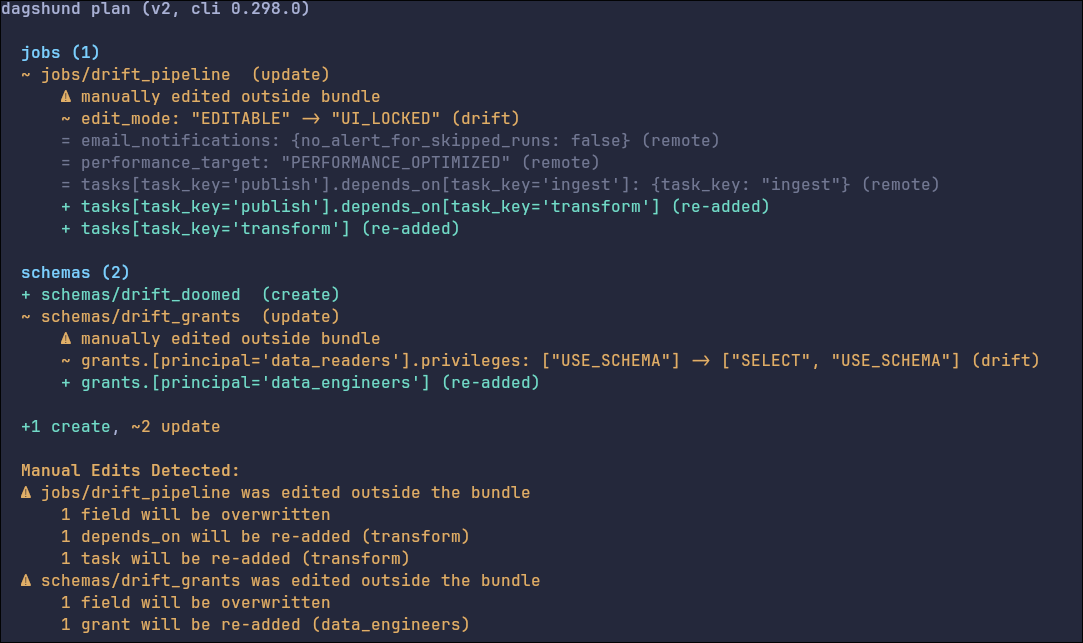
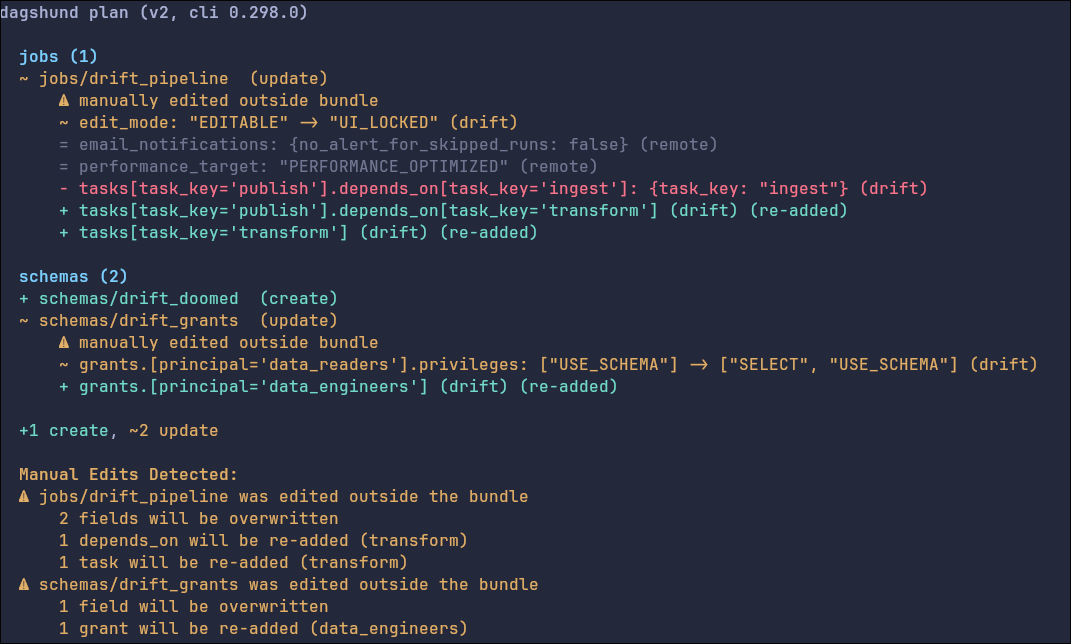
refactor(drift): surface drift tag on topology re-add entries (dagshund-qby2)

diff --git a/js/src/components/detail-panel/drift-pill.tsx b/js/src/components/detail-panel/drift-pill.tsx
@@ -1,7 +1,8 @@
 /**
- * Small textual pill signaling that a node carries topology drift:
- * a sub-entity defined in the bundle but missing from the remote, which
- * Databricks will re-add on apply.
+ * Small textual pill signaling drift between the bundle and the remote:
+ * a manual edit that apply will reconcile. Covers three cases — field-level
+ * drift (apply will overwrite), topology re-add (apply will re-add), and
+ * reclassified list-element delete (apply will remove).
  *
  * Deliberately NOT composed with DiffStateBadge — drift is an orthogonal
  * dimension (runs alongside added/modified/unchanged), with distinct
@@ -10,7 +11,7 @@
 export function DriftPill() {
   return (
     <span
-      title="Sub-entity is missing from the remote — will be re-added on apply"
+      title="Differs from remote — apply will reconcile this"
       className="rounded-full border border-dashed border-ink-muted px-1.5 py-0 text-[10px] font-medium text-ink-muted"
     >
       drift

diff --git a/js/tests/components/detail-panel/drift-pill.test.tsx b/js/tests/components/detail-panel/drift-pill.test.tsx
@@ -7,7 +7,7 @@ describe("DriftPill", () => {
     const { getByText, container } = render(<DriftPill />);
     expect(getByText("drift")).toBeDefined();
     const span = container.querySelector("span") as HTMLElement;
-    expect(span.title).toContain("re-added on apply");
+    expect(span.title).toContain("apply will reconcile");
   });
 
   test("has the dashed-border visual treatment", () => {

diff --git a/tests/test_markdown.py b/tests/test_markdown.py
@@ -368,8 +368,8 @@ def test_render_markdown_drift_plan(fixtures_dir: Path) -> None:
     assert ">   - 1 grant will be re-added (data_engineers)" in result
 
     # Body: re-added sub-entities rendered as create-style list items
-    assert "`+` `tasks[task_key='transform']` (re-added)" in result
-    assert "`+` `grants.[principal='data_engineers']` (re-added)" in result
+    assert "`+` `tasks[task_key='transform']` (drift) (re-added)" in result
+    assert "`+` `grants.[principal='data_engineers']` (drift) (re-added)" in result
 
     # Old flat parenthetical format must not leak back in
     assert "(2 fields will be overwritten)" not in result
@@ -398,7 +398,7 @@ def test_render_markdown_drift_topology_only() -> None:
     result = render_markdown(plan)
 
     assert ":warning: manually edited outside bundle" in result
-    assert "`+` `tasks[task_key='transform']` (re-added)" in result
+    assert "`+` `tasks[task_key='transform']` (drift) (re-added)" in result
     assert ">   - 1 task will be re-added (transform)" in result
 
 

diff --git a/tests/test_terminal.py b/tests/test_terminal.py
@@ -974,7 +974,7 @@ def test_render_resource_topology_drift_emits_single_reentry_line(change_key: st
     lines = list(_render_resource("resources.jobs.pipeline", entry, use_color=False))
     matching = [line for line in lines if expected_token in line]
     assert len(matching) == 1
-    assert matching[0].endswith("(re-added)")
+    assert matching[0].endswith("(drift) (re-added)")
     assert "+" in matching[0]
     assert any("manually edited outside bundle" in line for line in lines)
 

diff --git a/src/dagshund/terminal.py b/src/dagshund/terminal.py
@@ -200,7 +200,7 @@ def _render_resource(
         for key_name, change in sorted(changes.items()):
             if not is_topology_drift_change(change):
                 continue
-            line = f"      {create_cfg.symbol} {key_name} (re-added)"
+            line = f"      {create_cfg.symbol} {key_name} (drift) (re-added)"
             yield _colorize(line, create_color, use_color=use_color)
 
 

diff --git a/src/dagshund/markdown.py b/src/dagshund/markdown.py
@@ -92,7 +92,7 @@ def _render_resource(
         for key_name, change in sorted(changes.items()):
             if not is_topology_drift_change(change):
                 continue
-            yield f"  - `{create_cfg.symbol}` `{key_name}` (re-added)"
+            yield f"  - `{create_cfg.symbol}` `{key_name}` (drift) (re-added)"
 
 
 def _render_header(plan: Plan) -> Iterator[str]:

diff --git a/fixtures/golden/manual-drift/expected.md b/fixtures/golden/manual-drift/expected.md
@@ -7,15 +7,15 @@
   - `=` `email_notifications`: {no_alert_for_skipped_runs: false} (remote)
   - `=` `performance_target`: "PERFORMANCE_OPTIMIZED" (remote)
   - `-` `tasks[task_key='publish'].depends_on[task_key='ingest']`: {task_key: "ingest"} (drift)
-  - `+` `tasks[task_key='publish'].depends_on[task_key='transform']` (re-added)
-  - `+` `tasks[task_key='transform']` (re-added)
+  - `+` `tasks[task_key='publish'].depends_on[task_key='transform']` (drift) (re-added)
+  - `+` `tasks[task_key='transform']` (drift) (re-added)
 
 #### schemas (2)
 - `+` `schemas/drift_doomed` — create
 - `~` `schemas/drift_grants` — update
   - :warning: manually edited outside bundle
   - `~` `grants.[principal='data_readers'].privileges`: ["USE_SCHEMA"] -> ["SELECT", "USE_SCHEMA"] (drift)
-  - `+` `grants.[principal='data_engineers']` (re-added)
+  - `+` `grants.[principal='data_engineers']` (drift) (re-added)
 
 **+1** create, **~2** update
 
